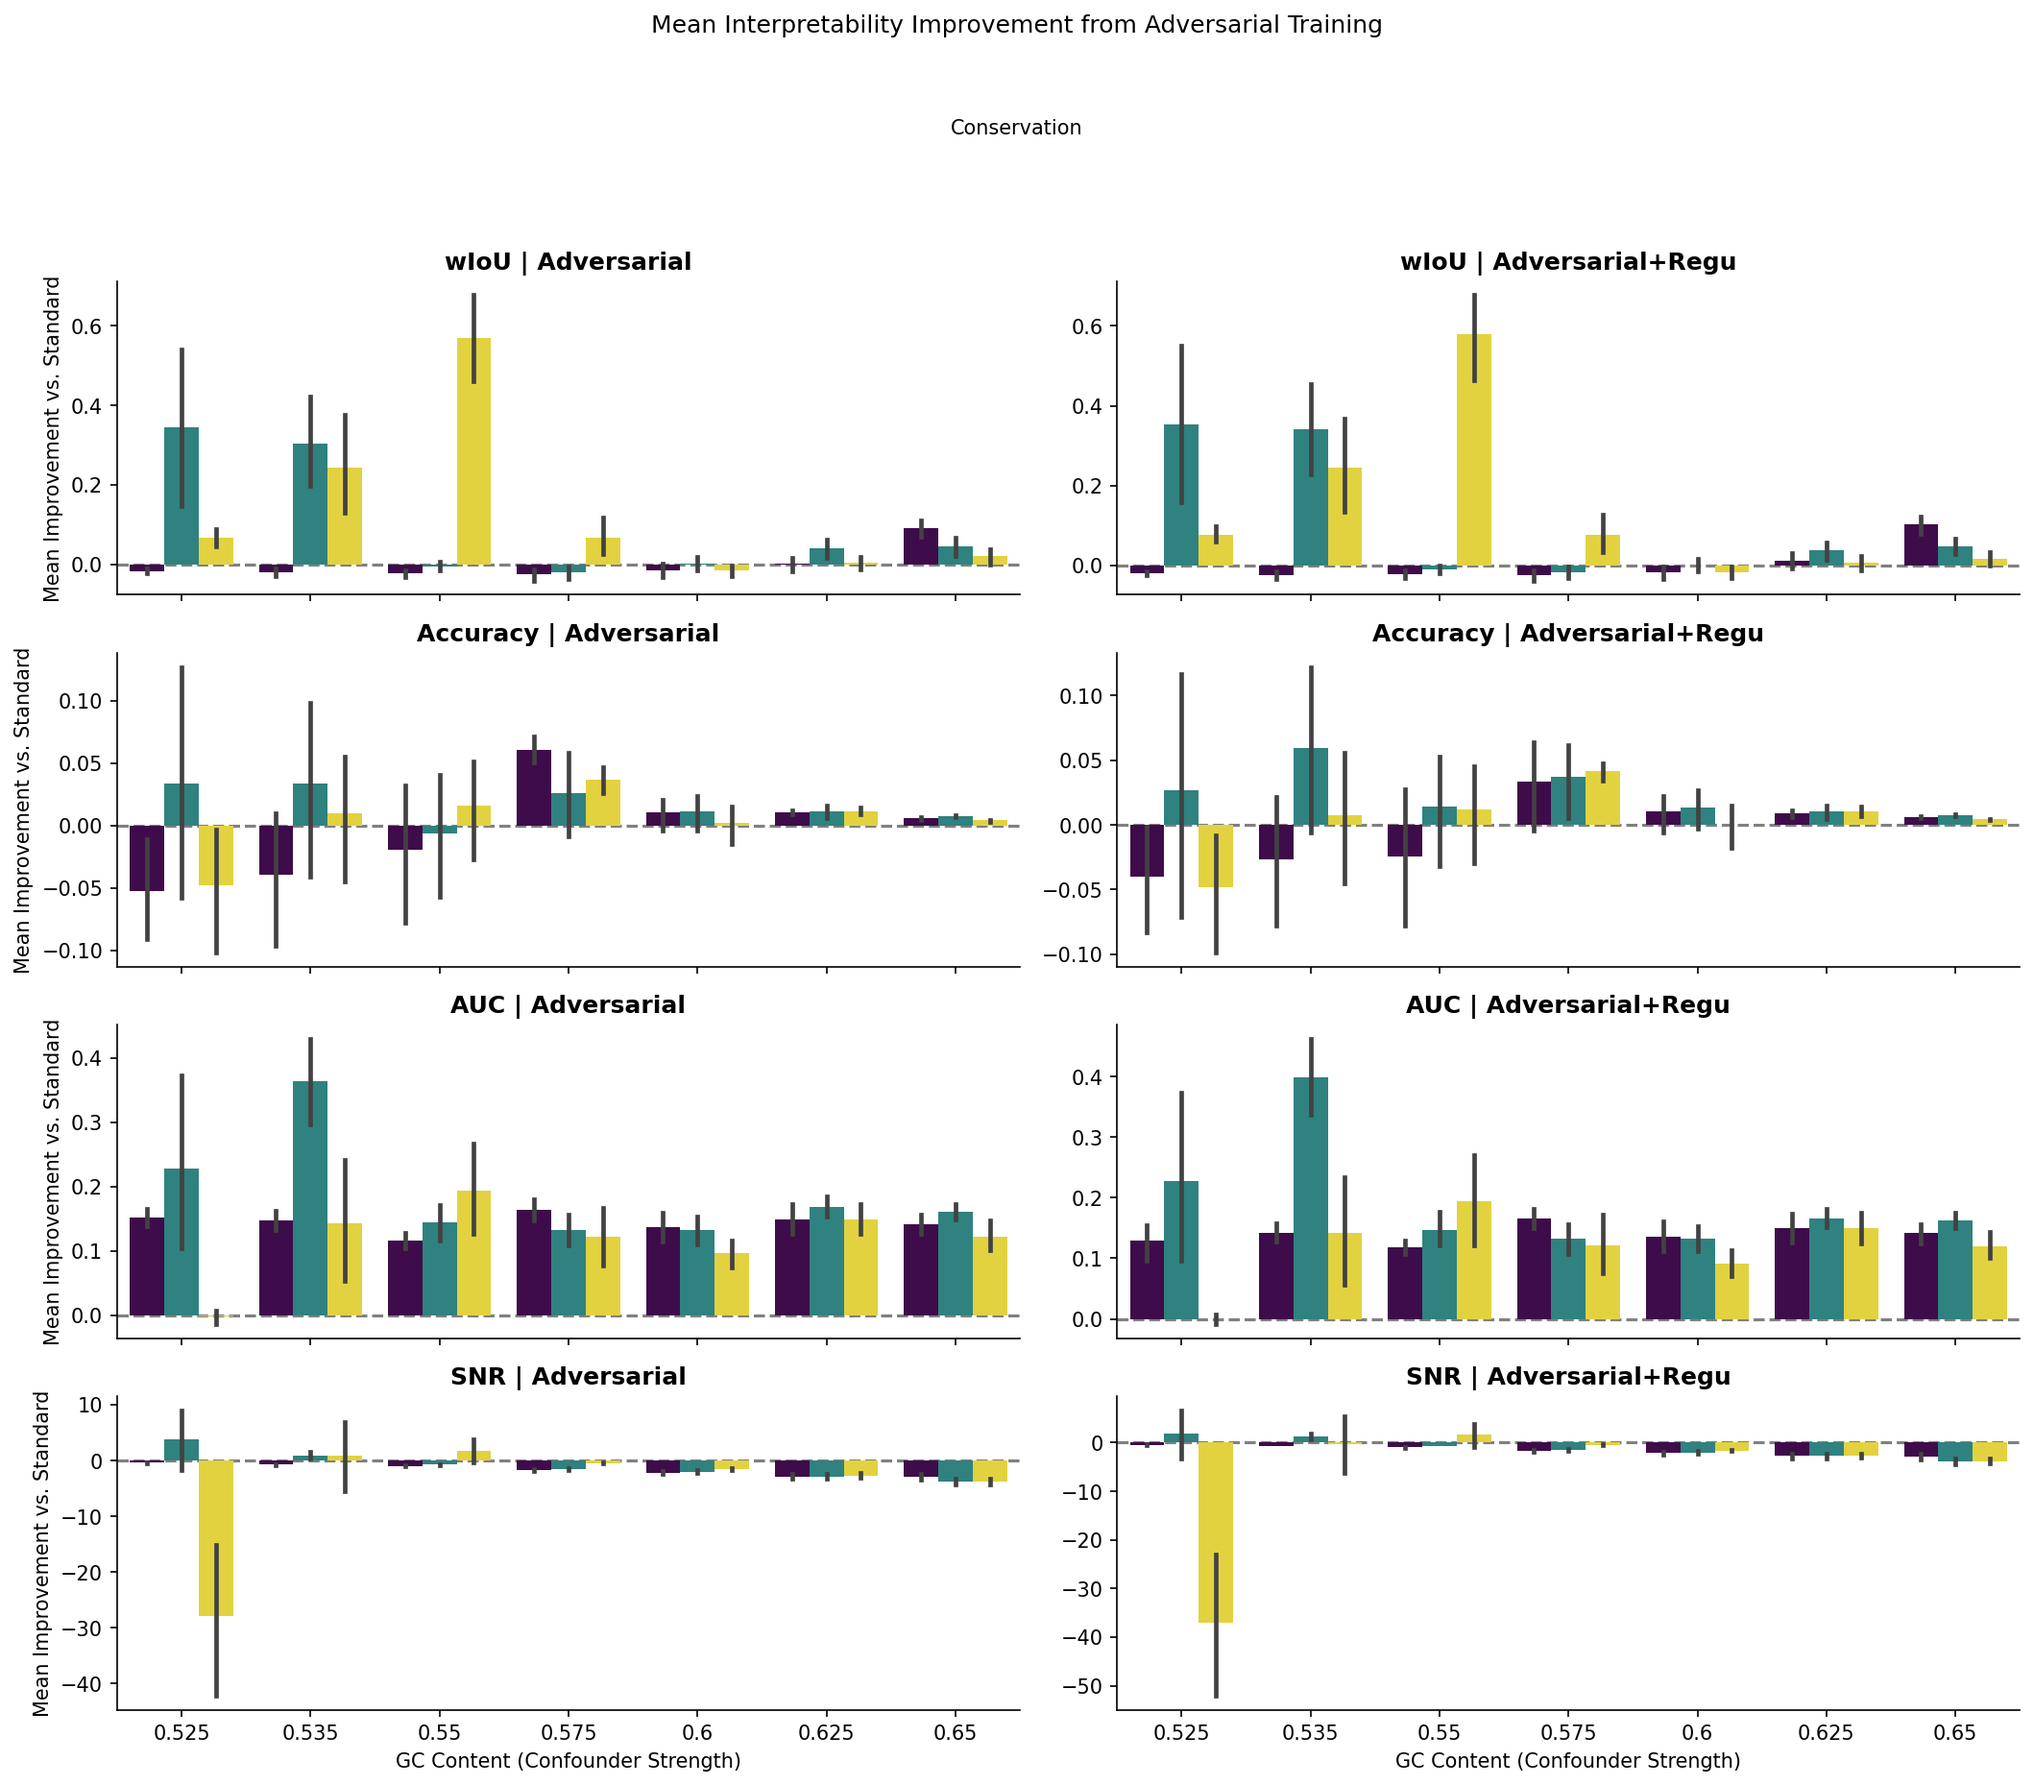
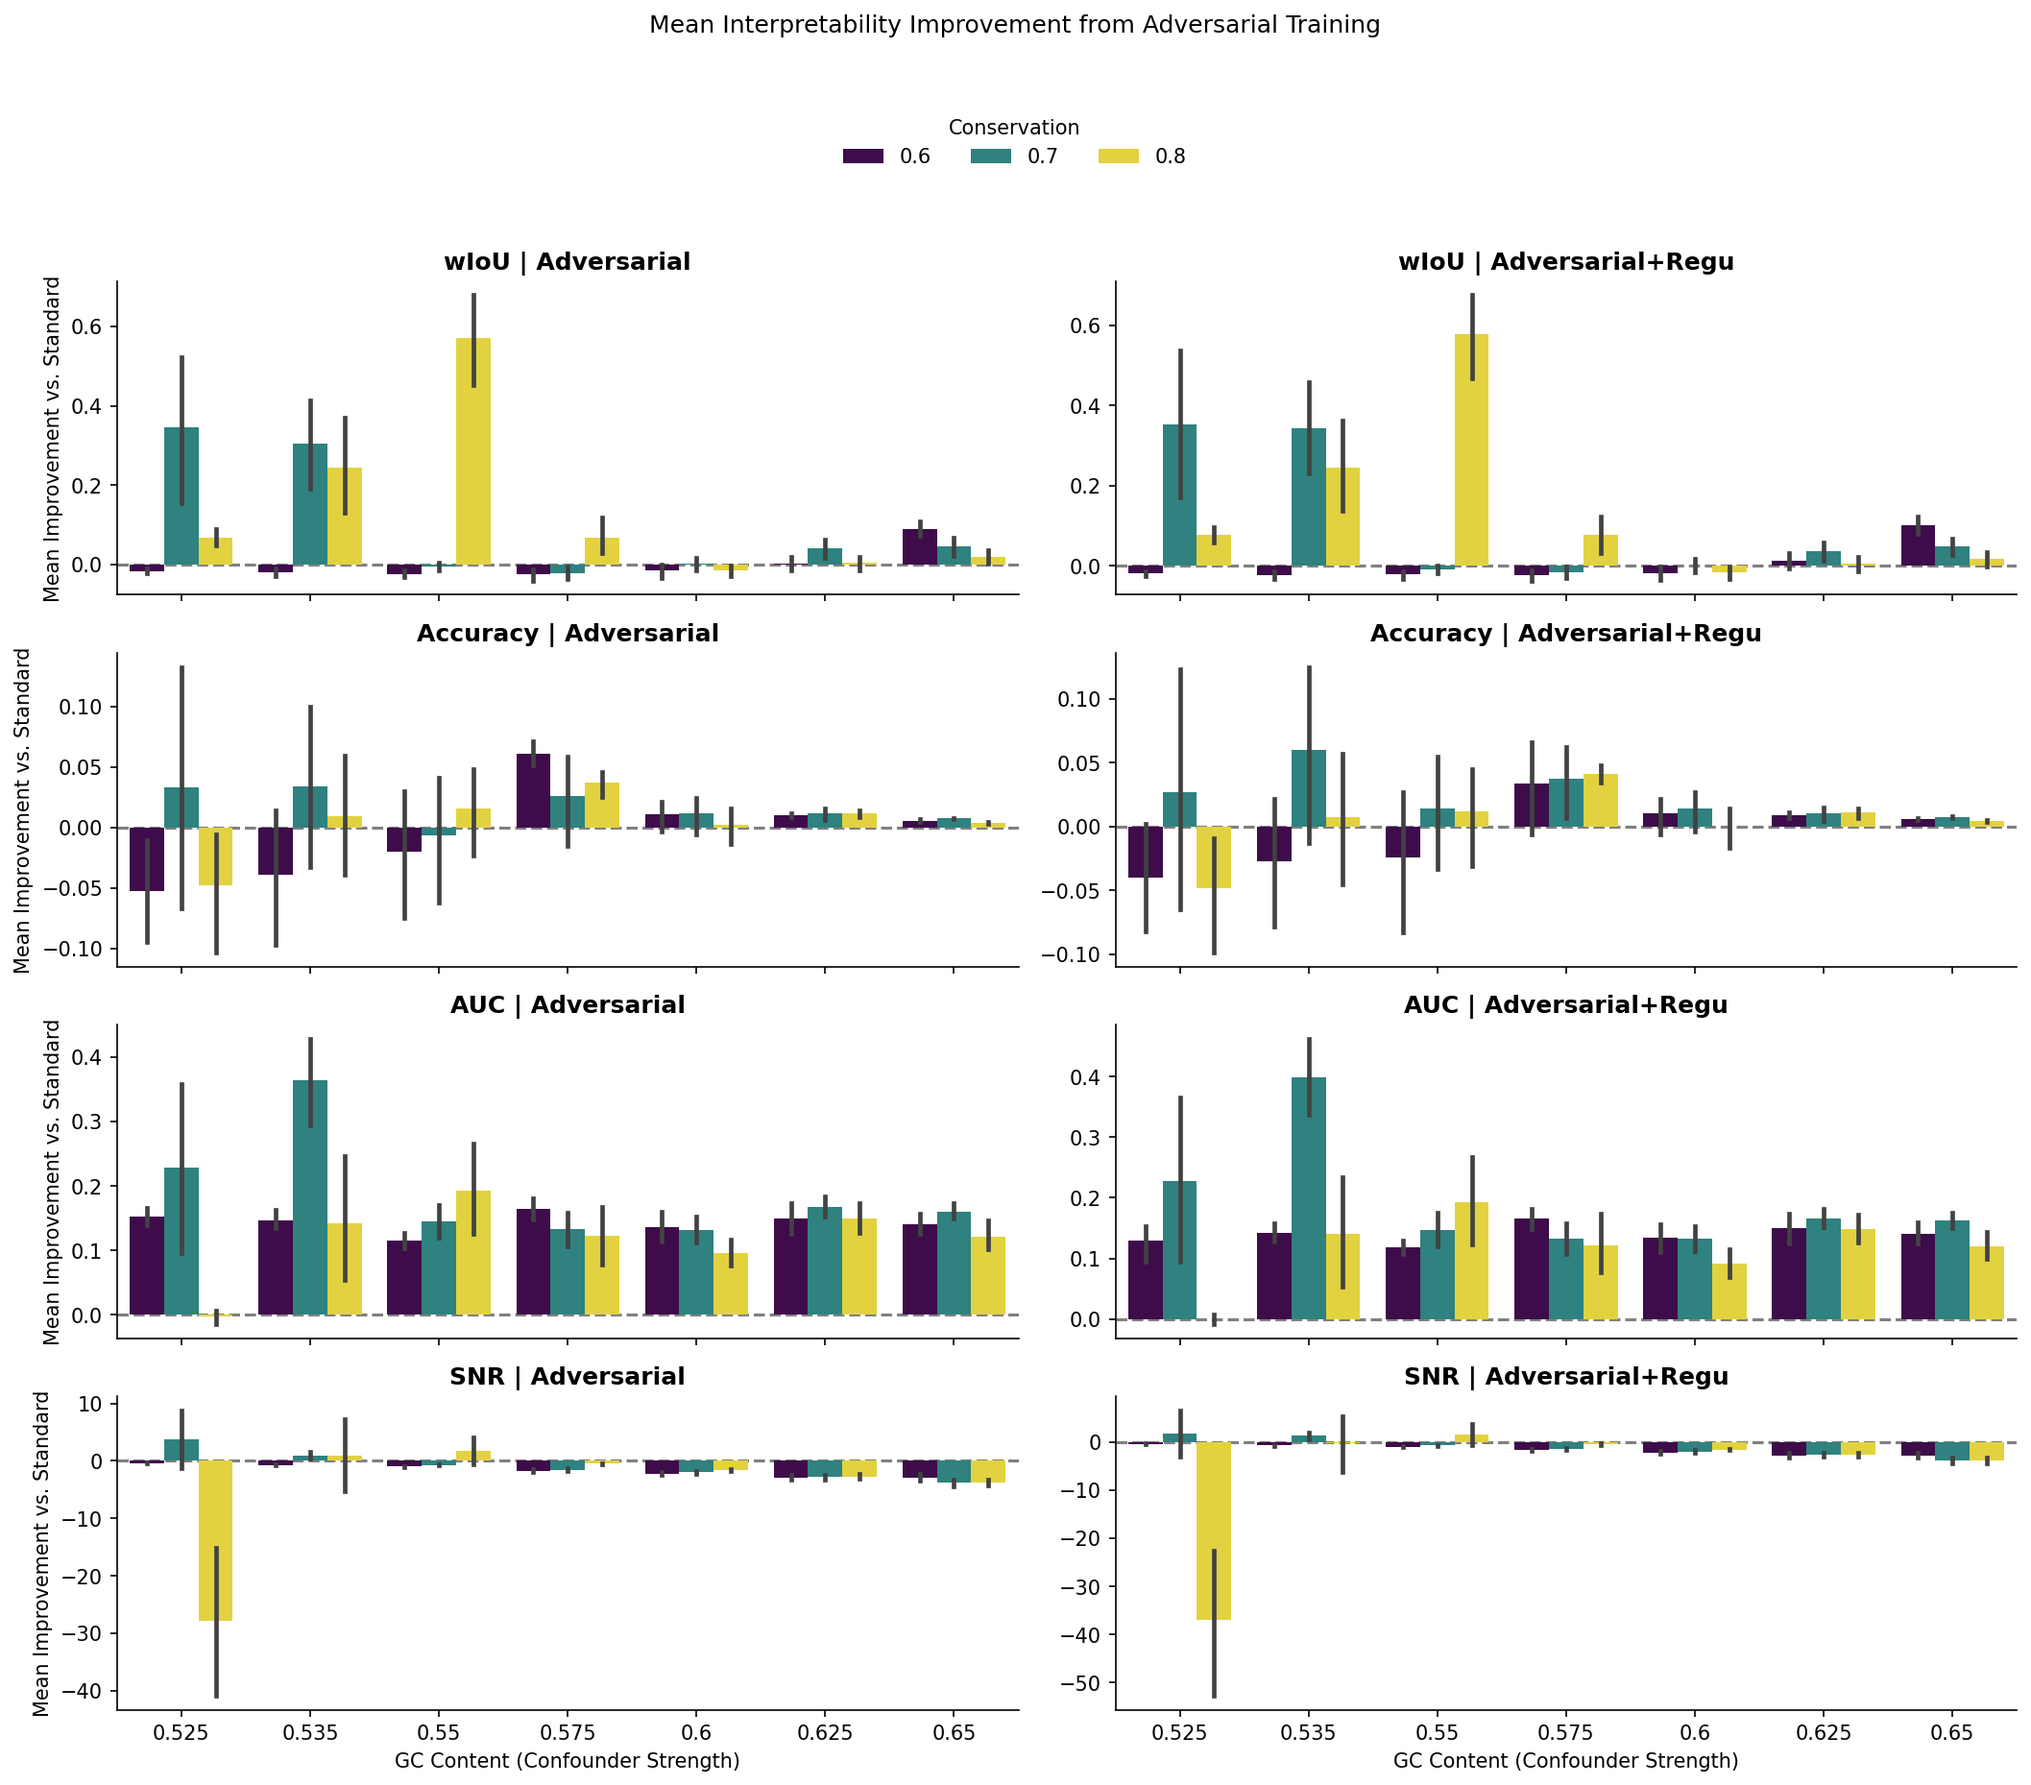
plot improvement

diff --git a/toy_slurm.py b/toy_slurm.py
@@ -1235,7 +1235,7 @@ if __name__ == "__main__":
         else:
             print("  - Skipping Plot Set 2: No data for scheduled models found.")
 
-        # --- PLOT SET 3: Summary Bar Chart ---
+        # --- PLOT SET 3: Summary Bar Chart of Mean Improvements ---
         print("\n--- Generating Plot Set 3: Summary Bar Chart of Mean Improvements ---")
         if was_lambda_sweep and 'best_lambdas' in locals():
             print("Using best-lambda data for summary chart.")
@@ -1279,7 +1279,6 @@ if __name__ == "__main__":
                 sharey=False,
                 palette='viridis',
                 col_order=['Adversarial', 'Adversarial+Regu'],
-                legend=False # Disable automatic legend creation
             )
             y_label_text = "Mean Improvement vs. Standard"
             g.set_axis_labels("GC Content (Confounder Strength)", y_label_text)
@@ -1304,7 +1303,7 @@ if __name__ == "__main__":
                 if i % g.axes.shape[1] != 0:
                     ax.set_ylabel("")
 
-            g.add_legend(title="Conservation", loc='upper center', bbox_to_anchor=(.5, 0.98), ncol=3, frameon=False)
+            sns.move_legend(g, "upper center", bbox_to_anchor=(.5, 0.98), ncol=3, title="Conservation", frameon=False)
             g.tight_layout(rect=[0, 0, 1, 0.93])
             overview_path = os.path.join(plots_dir, "summary_barchart_mean_improvement.png")
             g.savefig(overview_path, dpi=150)
@@ -1312,6 +1311,63 @@ if __name__ == "__main__":
             print(f"  Saved final summary plot to {overview_path}")
         else:
             print("  - Skipping Plot Set 3: No adversarial data with best lambda to calculate improvements.")
+
+        # --- PLOT SET 4: Scheduled vs Non-scheduled adversarial models (no regularization) ---
+        print("\n--- Generating Plot Set 4: Scheduled vs Non-scheduled (No Regularization) ---")
+        df_no_regu = df[df['regularization'] == 'no_regu'].copy()
+
+        if not df_no_regu.empty and df_no_regu[df_no_regu['epsilon'] > 0].shape[0] > 0:
+            # Calculate deltas relative to the standard model within each scheduling mode
+            baseline_for_bar = df_no_regu[
+                df_no_regu['epsilon'] == 0
+            ].set_index(
+                ['scheduling_mode', 'gc_pos', 'conservation', 'seed']
+            )[metrics_to_plot].rename(columns=lambda c: f"{c}_base")
+
+            df_for_barchart = df_no_regu[df_no_regu['epsilon'] > 0].join(
+                baseline_for_bar, on=['scheduling_mode', 'gc_pos', 'conservation', 'seed']
+            )
+
+            delta_df_list = []
+            for metric in metrics_to_plot:
+                delta_col = f'delta_{metric}'
+                df_for_barchart[delta_col] = df_for_barchart[metric] - df_for_barchart.get(f'{metric}_base', 0)
+                temp_df = df_for_barchart[['scheduling_mode', 'gc_pos', 'conservation', delta_col]].copy()
+                temp_df.rename(columns={delta_col: 'delta_value'}, inplace=True)
+                temp_df['metric'] = metric.replace('Saliency', '')
+                delta_df_list.append(temp_df)
+            
+            final_delta_df = pd.concat(delta_df_list, ignore_index=True)
+
+            g = sns.catplot(
+                data=final_delta_df,
+                x='gc_pos', y='delta_value', hue='conservation',
+                col='scheduling_mode', row='metric',
+                kind='bar', height=3, aspect=2.2,
+                sharey=False,
+                palette='viridis',
+                col_order=['no_schedule', 'scheduled'],
+            )
+            y_label_text = "Mean Improvement vs. Standard"
+            g.set_axis_labels("GC Content (Confounder Strength)", y_label_text)
+            g.set_titles(col_template="{col_name}", row_template="{row_name}", fontweight='bold')
+            g.fig.suptitle("Mean Improvement: Scheduled vs. Non-Scheduled Adversarial Training (No Regularization)", y=1.03)
+            
+            # Customize axes
+            for i, ax in enumerate(g.axes.flat):
+                ax.axhline(0, ls='--', color='gray', zorder=0)
+                if i % g.axes.shape[1] != 0:
+                    ax.set_ylabel("")
+
+            sns.move_legend(g, "upper center", bbox_to_anchor=(.5, 0.98), ncol=3, title="Conservation", frameon=False)
+            g.tight_layout(rect=[0, 0, 1, 0.93])
+            overview_path = os.path.join(plots_dir, "summary_barchart_sched_vs_nonsched.png")
+            g.savefig(overview_path, dpi=150)
+            plt.close(g.fig)
+            print(f"  Saved scheduled vs non-scheduled summary plot to {overview_path}")
+        else:
+            print("  - Skipping Plot Set 4: No data for non-regularized adversarial models found.")
+
 
         sys.exit(0)
 
